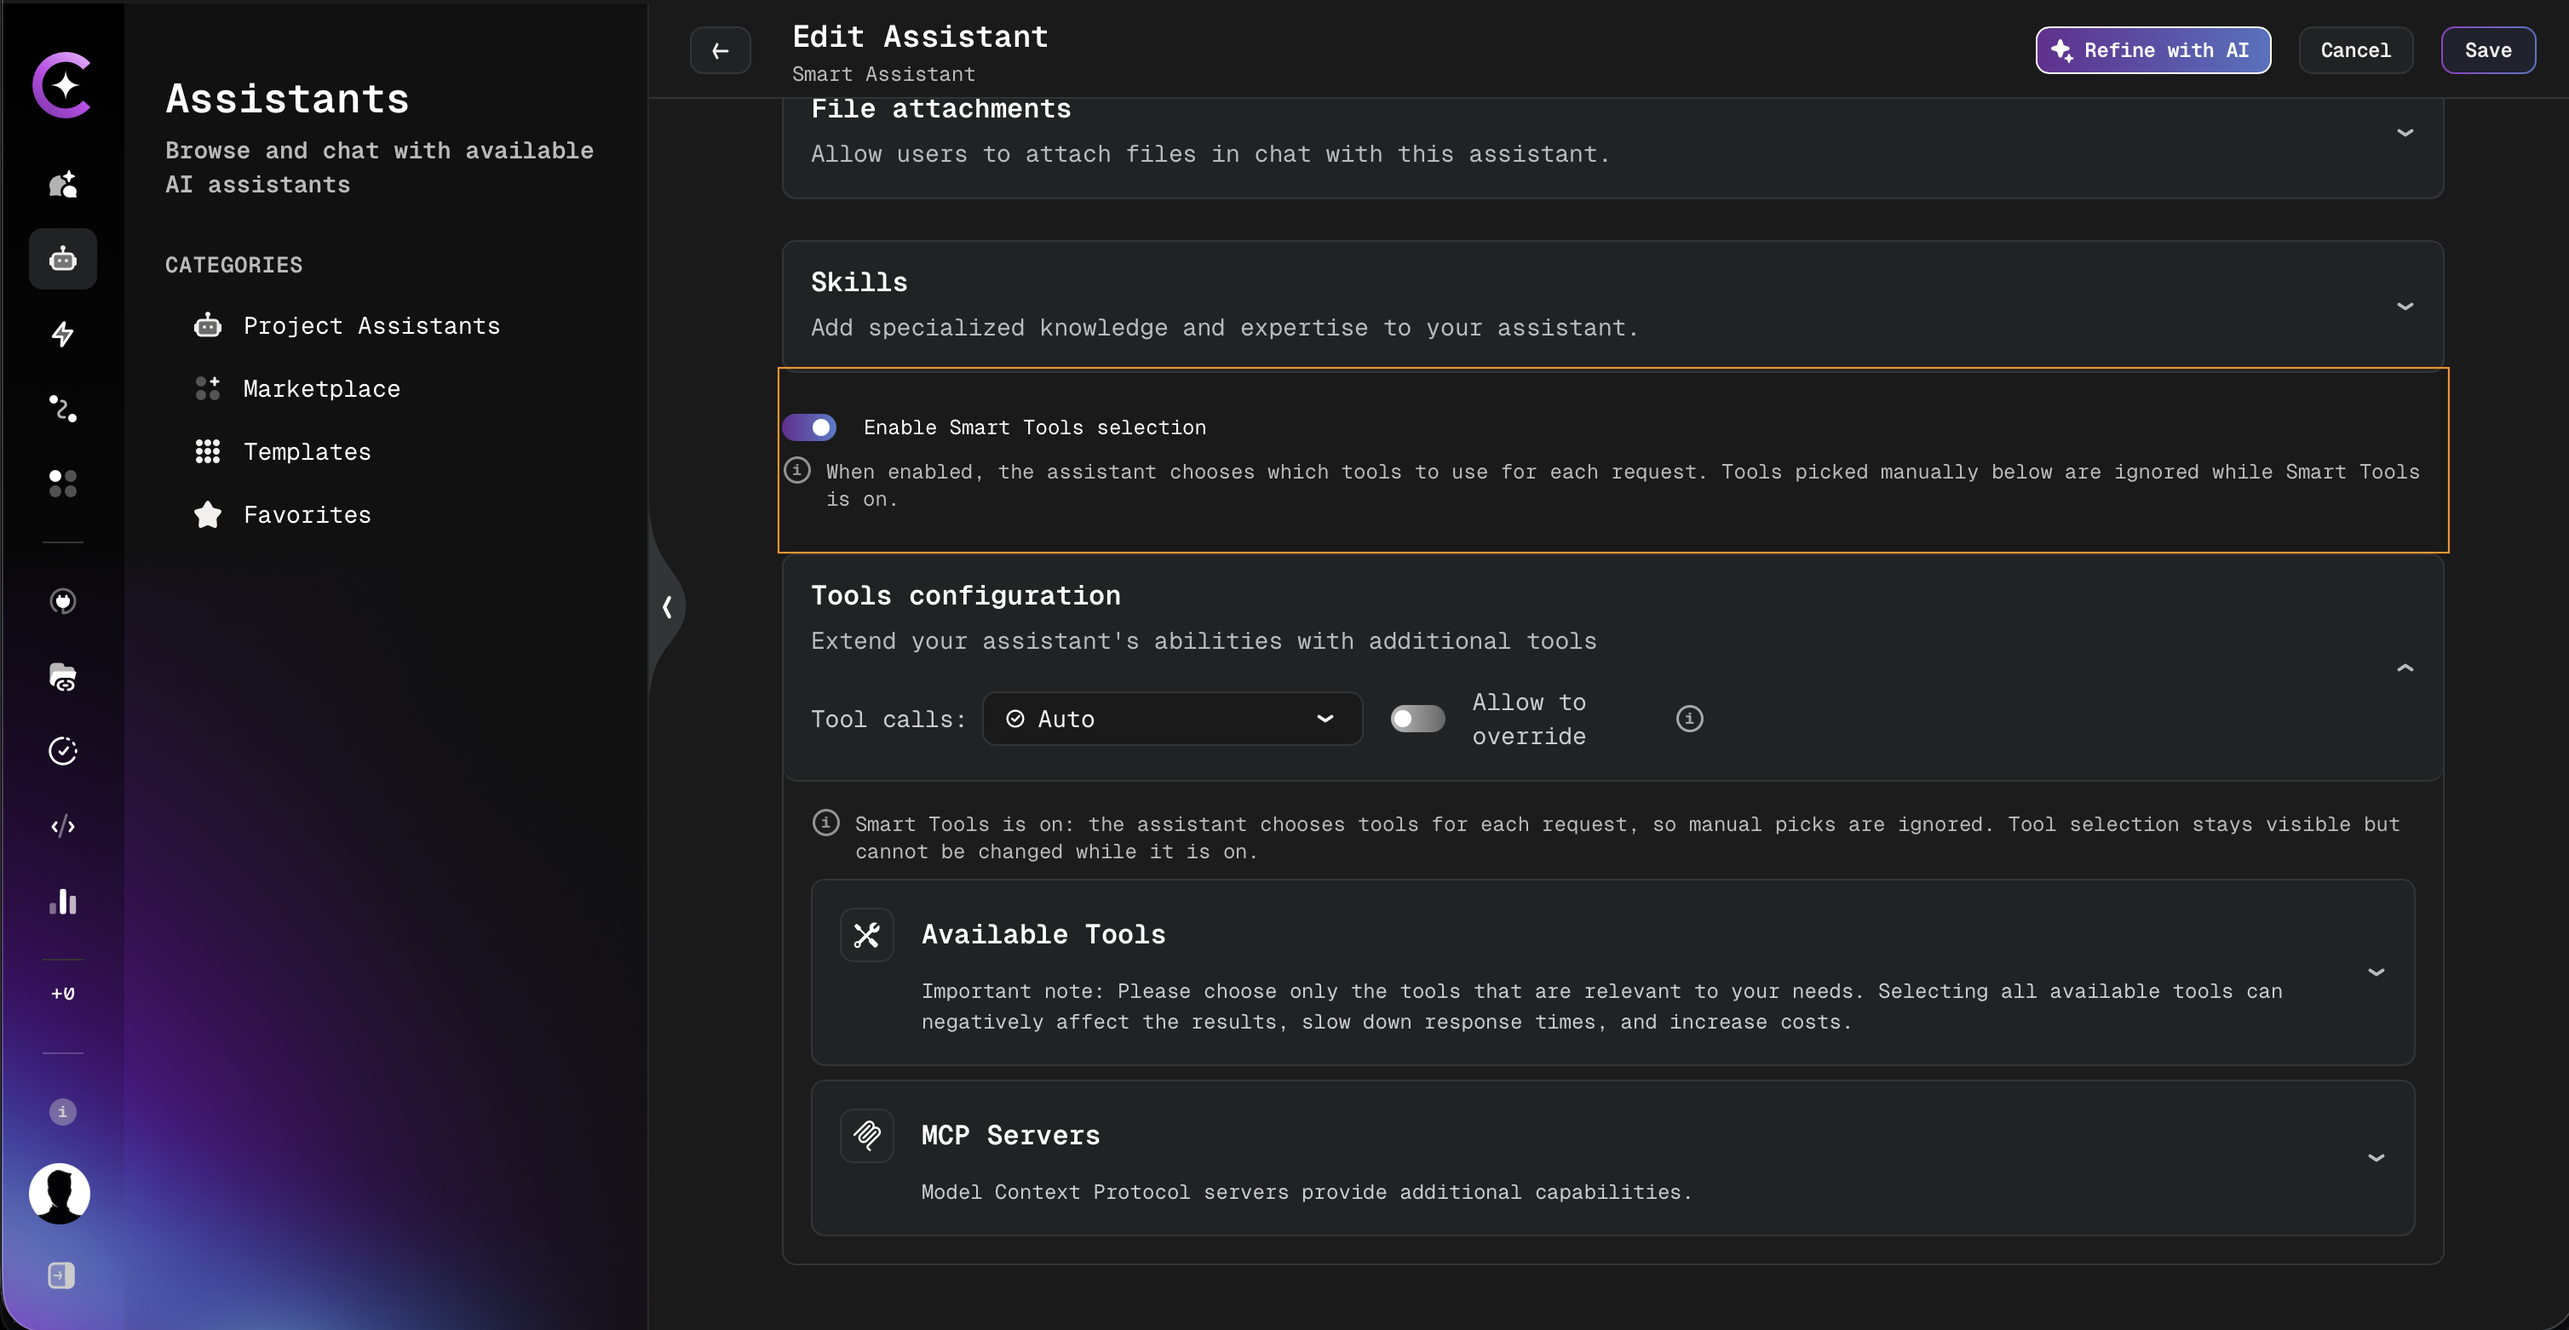
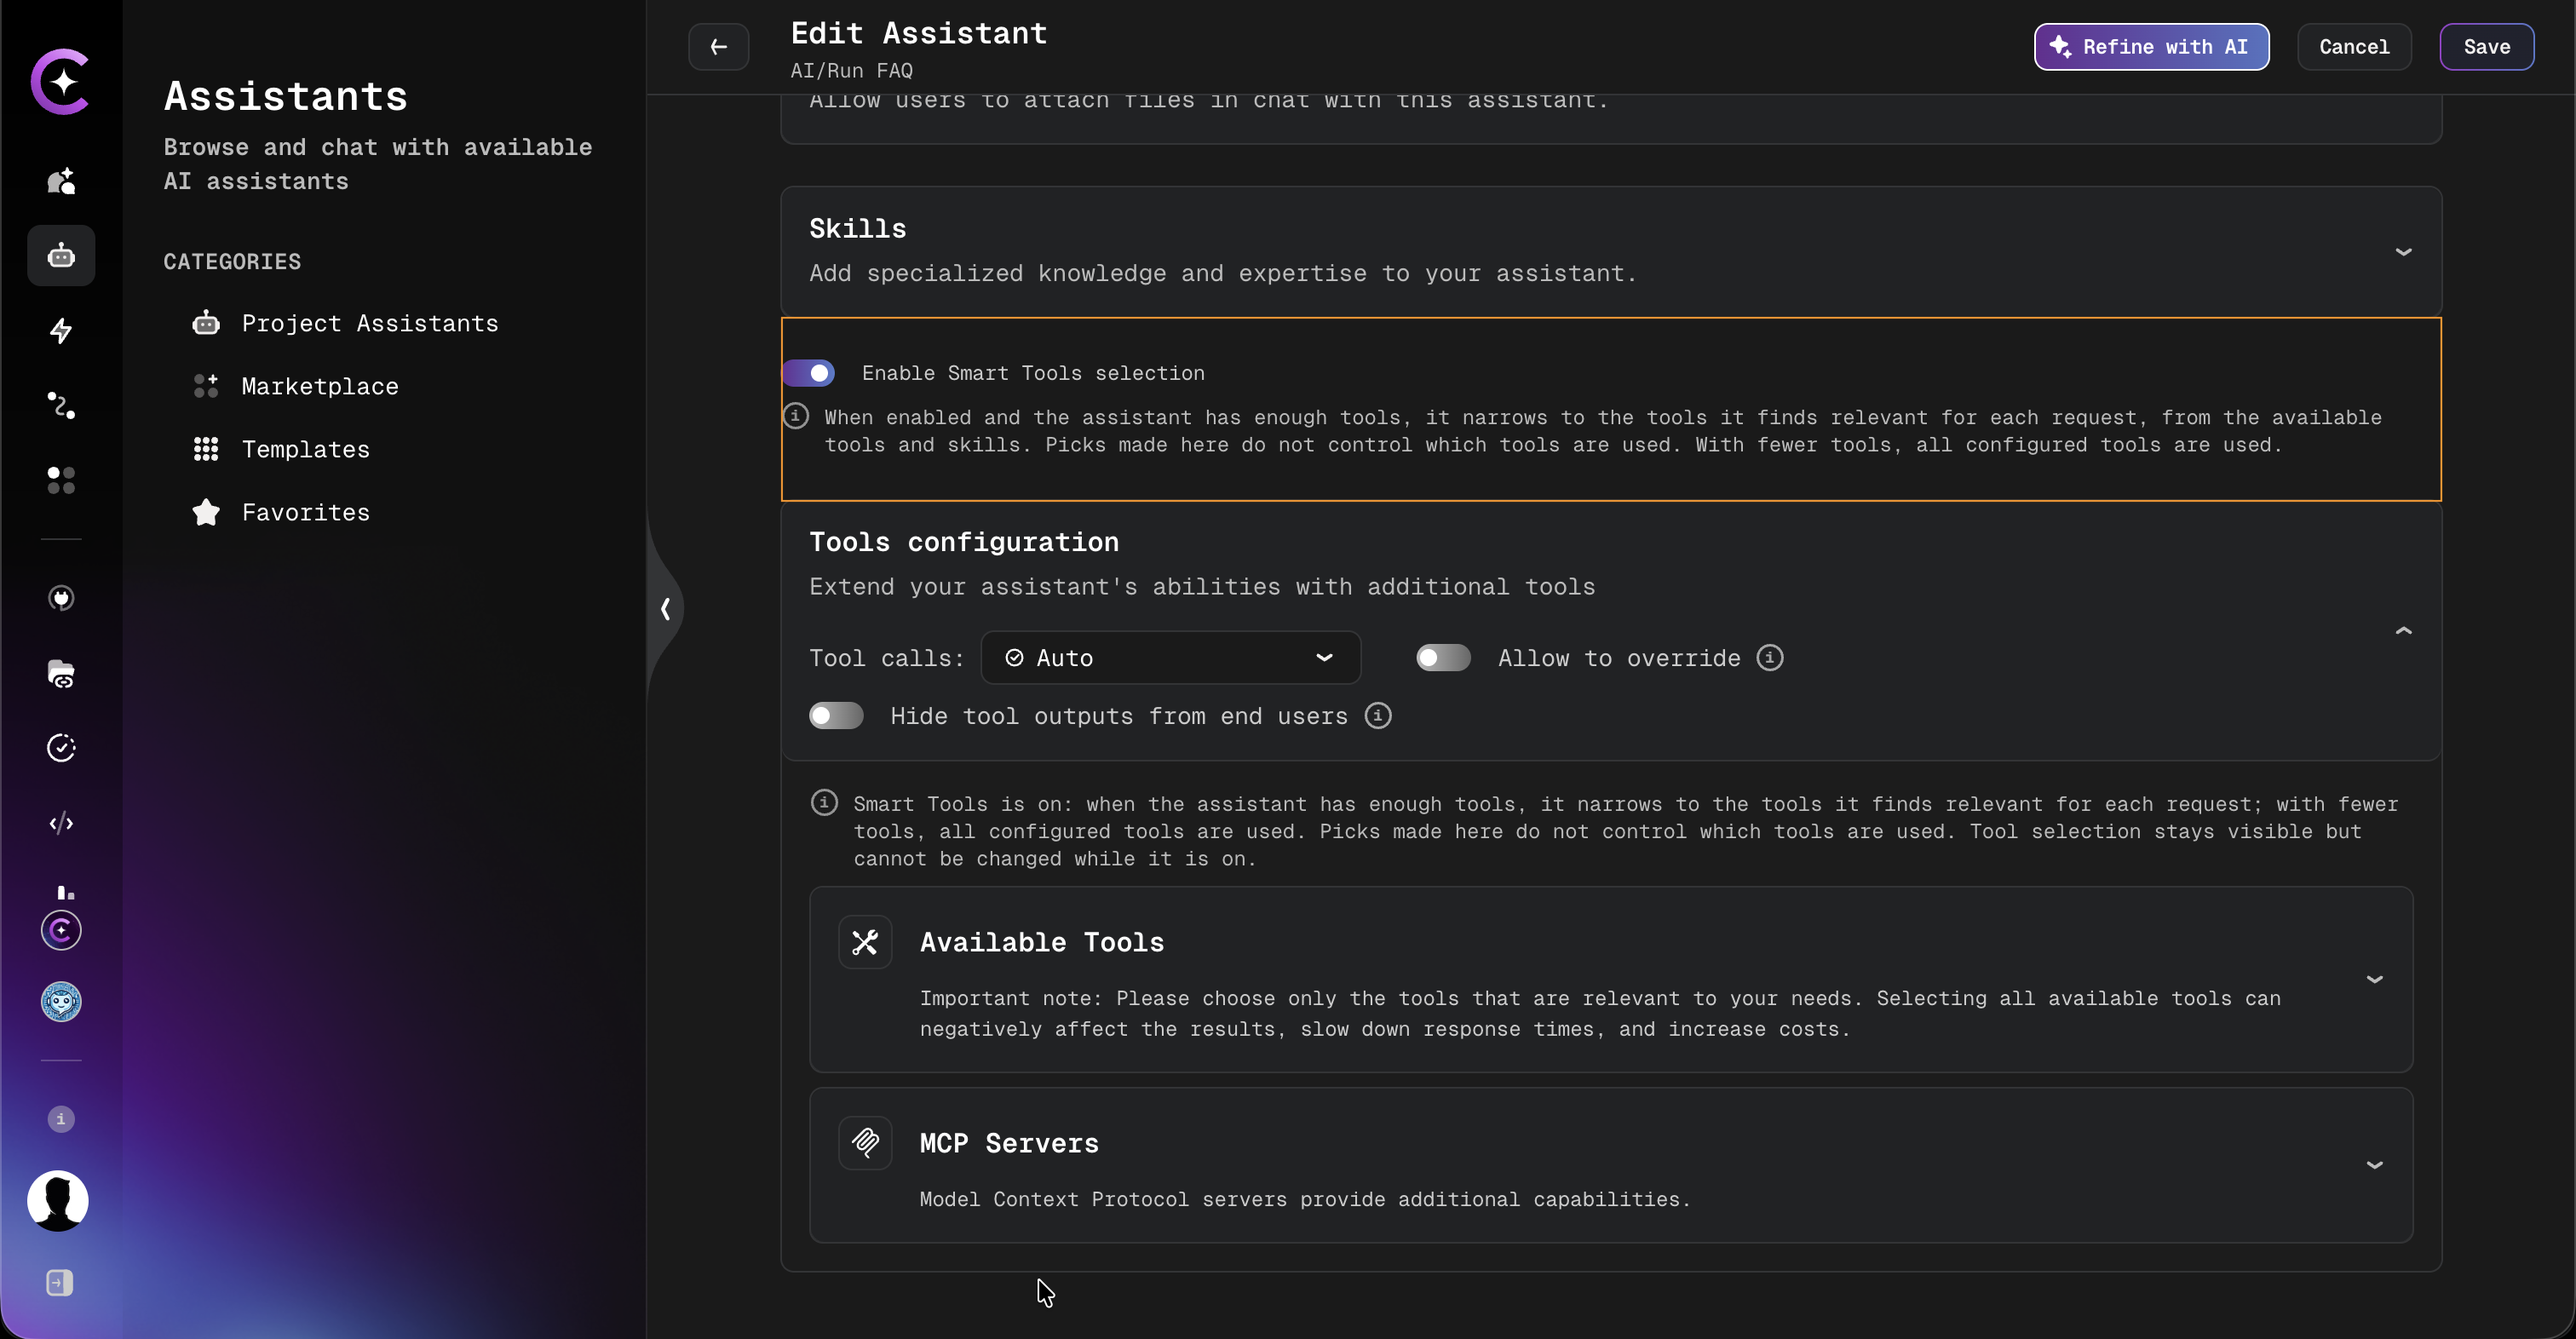
docs(user-guide): add smart tools selection section to create assistant guide
Add a Smart Tools Selection section above File Attachments in the Create
Assistant guide, reconciling frontend and backend behavior. Update the
tools overview and related FAQs (editable integration dropdowns, skills,
fallback, explicit enablement) and swap in the new toggle screenshot.

Generated with AI

diff --git a/docs/user-guide/assistants/create-assistant.md b/docs/user-guide/assistants/create-assistant.md
@@ -223,6 +223,50 @@ The `30000` placeholder is a visual hint only. Until a value is entered and save
 continues to use each tool's own default limit.
 :::
 
+## Smart Tools Selection
+
+The **Enable Smart Tools selection** toggle, located above the **Tools configuration** section,
+lets the assistant choose its tools and skills for each request instead of always offering the
+model every tool configured manually.
+
+![Enable Smart Tools selection toggle in the assistant configuration form](./images/smart-tools-selection.png)
+
+**How to enable**
+
+1. Switch on **Enable Smart Tools selection**.
+2. Click **Save**. The assistant details page shows **Smart Tools: ON** under **Tools & Capabilities**.
+
+**Behavior**
+
+| State   | Behavior                                                                                                                                                                     |
+| ------- | ---------------------------------------------------------------------------------------------------------------------------------------------------------------------------- |
+| **On**  | For each request, the assistant narrows to the tools it finds relevant, based on the request and the conversation history. Skills attached to the assistant remain available |
+| **Off** | The assistant uses only the tools selected in **Tools configuration**, up to the configured tool limit                                                                       |
+
+- Narrowing applies only when the assistant has enough tools. The threshold is a platform setting.
+  With fewer tools, all configured tools are used, as when the toggle is off.
+- Tools picked in the form do not decide which tools run. While the toggle is on, tool checkboxes,
+  **Select all**, MCP server toggles, and plugin selections stay visible but cannot be changed. Earlier
+  selections are kept and become active again when the toggle is switched off.
+- No limit applies to the number of tools that can be added to the assistant in this mode.
+- Integration (credential) dropdowns remain editable, and a credential chosen for a tool is applied
+  whenever that tool is selected for a request.
+- A new MCP server added in this mode defaults to using all of its tools.
+- If no relevant tool is found, the assistant falls back to the configured toolkits and skills.
+
+:::info Tools Requiring Explicit Enablement
+Web search, code interpreter, and image generation are added only when the matching feature is
+available and switched on for the request in the chat. Git tools still require the **Git** toolkit to
+be added to the assistant. See [Chat Input Settings](./chat-input-settings.md).
+:::
+
+:::note
+Smart Tools selection does not guarantee a tool call; the model may still answer directly. The
+feature also takes effect only when it is enabled on the platform level. If the toggle is on but the
+assistant behaves as before, contact the platform administrator. For details, see
+[Smart Tool Selection](../tools_integrations/tools/overview.md#smart-tool-selection).
+:::
+
 ## File Attachments
 
 The **File attachments** section controls whether users can attach files when chatting with

diff --git a/docs/user-guide/tools_integrations/tools/overview.md b/docs/user-guide/tools_integrations/tools/overview.md
@@ -71,8 +71,12 @@ Smart Tool Selection takes effect only when it is enabled on the platform level.
 
 - The assistant chooses tools for each request from all tools available on the platform. Tools are not limited to those picked manually.
 - Tool relevance is based on the request and the recent conversation, so different requests can use different tools.
-- The tools picked manually in **Tools configuration** are ignored. They stay visible but cannot be changed: tool checkboxes, **Select all**, MCP server toggles, and integration selectors are disabled, and an information message explains why.
-- Tools that depend on platform features follow the usual rules. For example, web search tools are available only when web search is enabled for the chat, and Git tools still require the **Git** toolkit to be added to the assistant.
+- Narrowing applies only when the assistant has enough tools; the threshold is a platform setting. With fewer tools, all configured tools are used.
+- Skills attached to the assistant stay available alongside the matched tools. If no relevant tool is found, the assistant falls back to the configured toolkits and skills.
+- The tools picked manually in **Tools configuration** do not decide which tools run. They stay visible but cannot be changed: tool checkboxes, **Select all**, MCP server toggles, and plugin selections are disabled, and an information message explains why. Integration (credential) dropdowns remain editable and are applied to the selected tools when they are used.
+- Web search, code interpreter, and image generation are added only when the matching feature is available and switched on for the request in the chat. Git tools still require the **Git** toolkit to be added to the assistant.
+- A technical maximum on the number of tools sent to the model still applies.
+- Smart Tool Selection does not guarantee a tool call; the model may still answer directly.
 - The **Assistant details** sidebar shows **Smart Tools: ON** under **Tools & Capabilities**.
 
 #### When Smart Tools Is Off

diff --git a/faq/why-are-tool-selections-disabled-in-the-assistant-configuration-form.md b/faq/why-are-tool-selections-disabled-in-the-assistant-configuration-form.md
@@ -1,6 +1,6 @@
 # Why are tool checkboxes and MCP server toggles disabled in the assistant configuration form?
 
-The **Enable Smart Tools selection** toggle is on for the assistant. In that mode the assistant chooses tools for each request, so manually picked tools are ignored. The tool checkboxes, **Select all**, MCP server toggles, and integration selectors stay visible but cannot be changed, and a message in **Tools configuration** explains this.
+The **Enable Smart Tools selection** toggle is on for the assistant. In that mode the assistant chooses tools for each request, so manually picked tools are ignored. The tool checkboxes, **Select all**, MCP server toggles, and plugin selections stay visible but cannot be changed (integration dropdowns remain editable), and a message in **Tools configuration** explains this.
 
 To change the tools manually, switch **Enable Smart Tools selection** off, adjust the selection, and save. The assistant details sidebar shows the current state as **Smart Tools: ON** or **Smart Tools: OFF** under **Tools & Capabilities**.
 

diff --git a/faq/how-does-smart-tool-selection-work-for-assistants.md b/faq/how-does-smart-tool-selection-work-for-assistants.md
@@ -7,8 +7,9 @@ To use it, open the assistant's **Create** or **Edit** page, switch on **Enable 
 While it is on:
 
 - The assistant chooses from all tools available on the platform, not only from the tools picked manually.
+- Narrowing applies only when the assistant has enough tools; with fewer tools, all configured tools are used.
 - Manually picked tools are ignored. They stay visible in **Tools configuration** but cannot be changed.
-- Web search and similar tools still follow their usual rules, and Git tools still require the **Git** toolkit on the assistant.
+- Skills stay available. Web search, code interpreter, and image generation are used only when enabled for the request, and Git tools still require the **Git** toolkit on the assistant.
 - Workflows are not affected and keep using manually selected tools.
 
 Switching the toggle off restores the previous manual selection. Keep it off when precise control over available tools is required.
